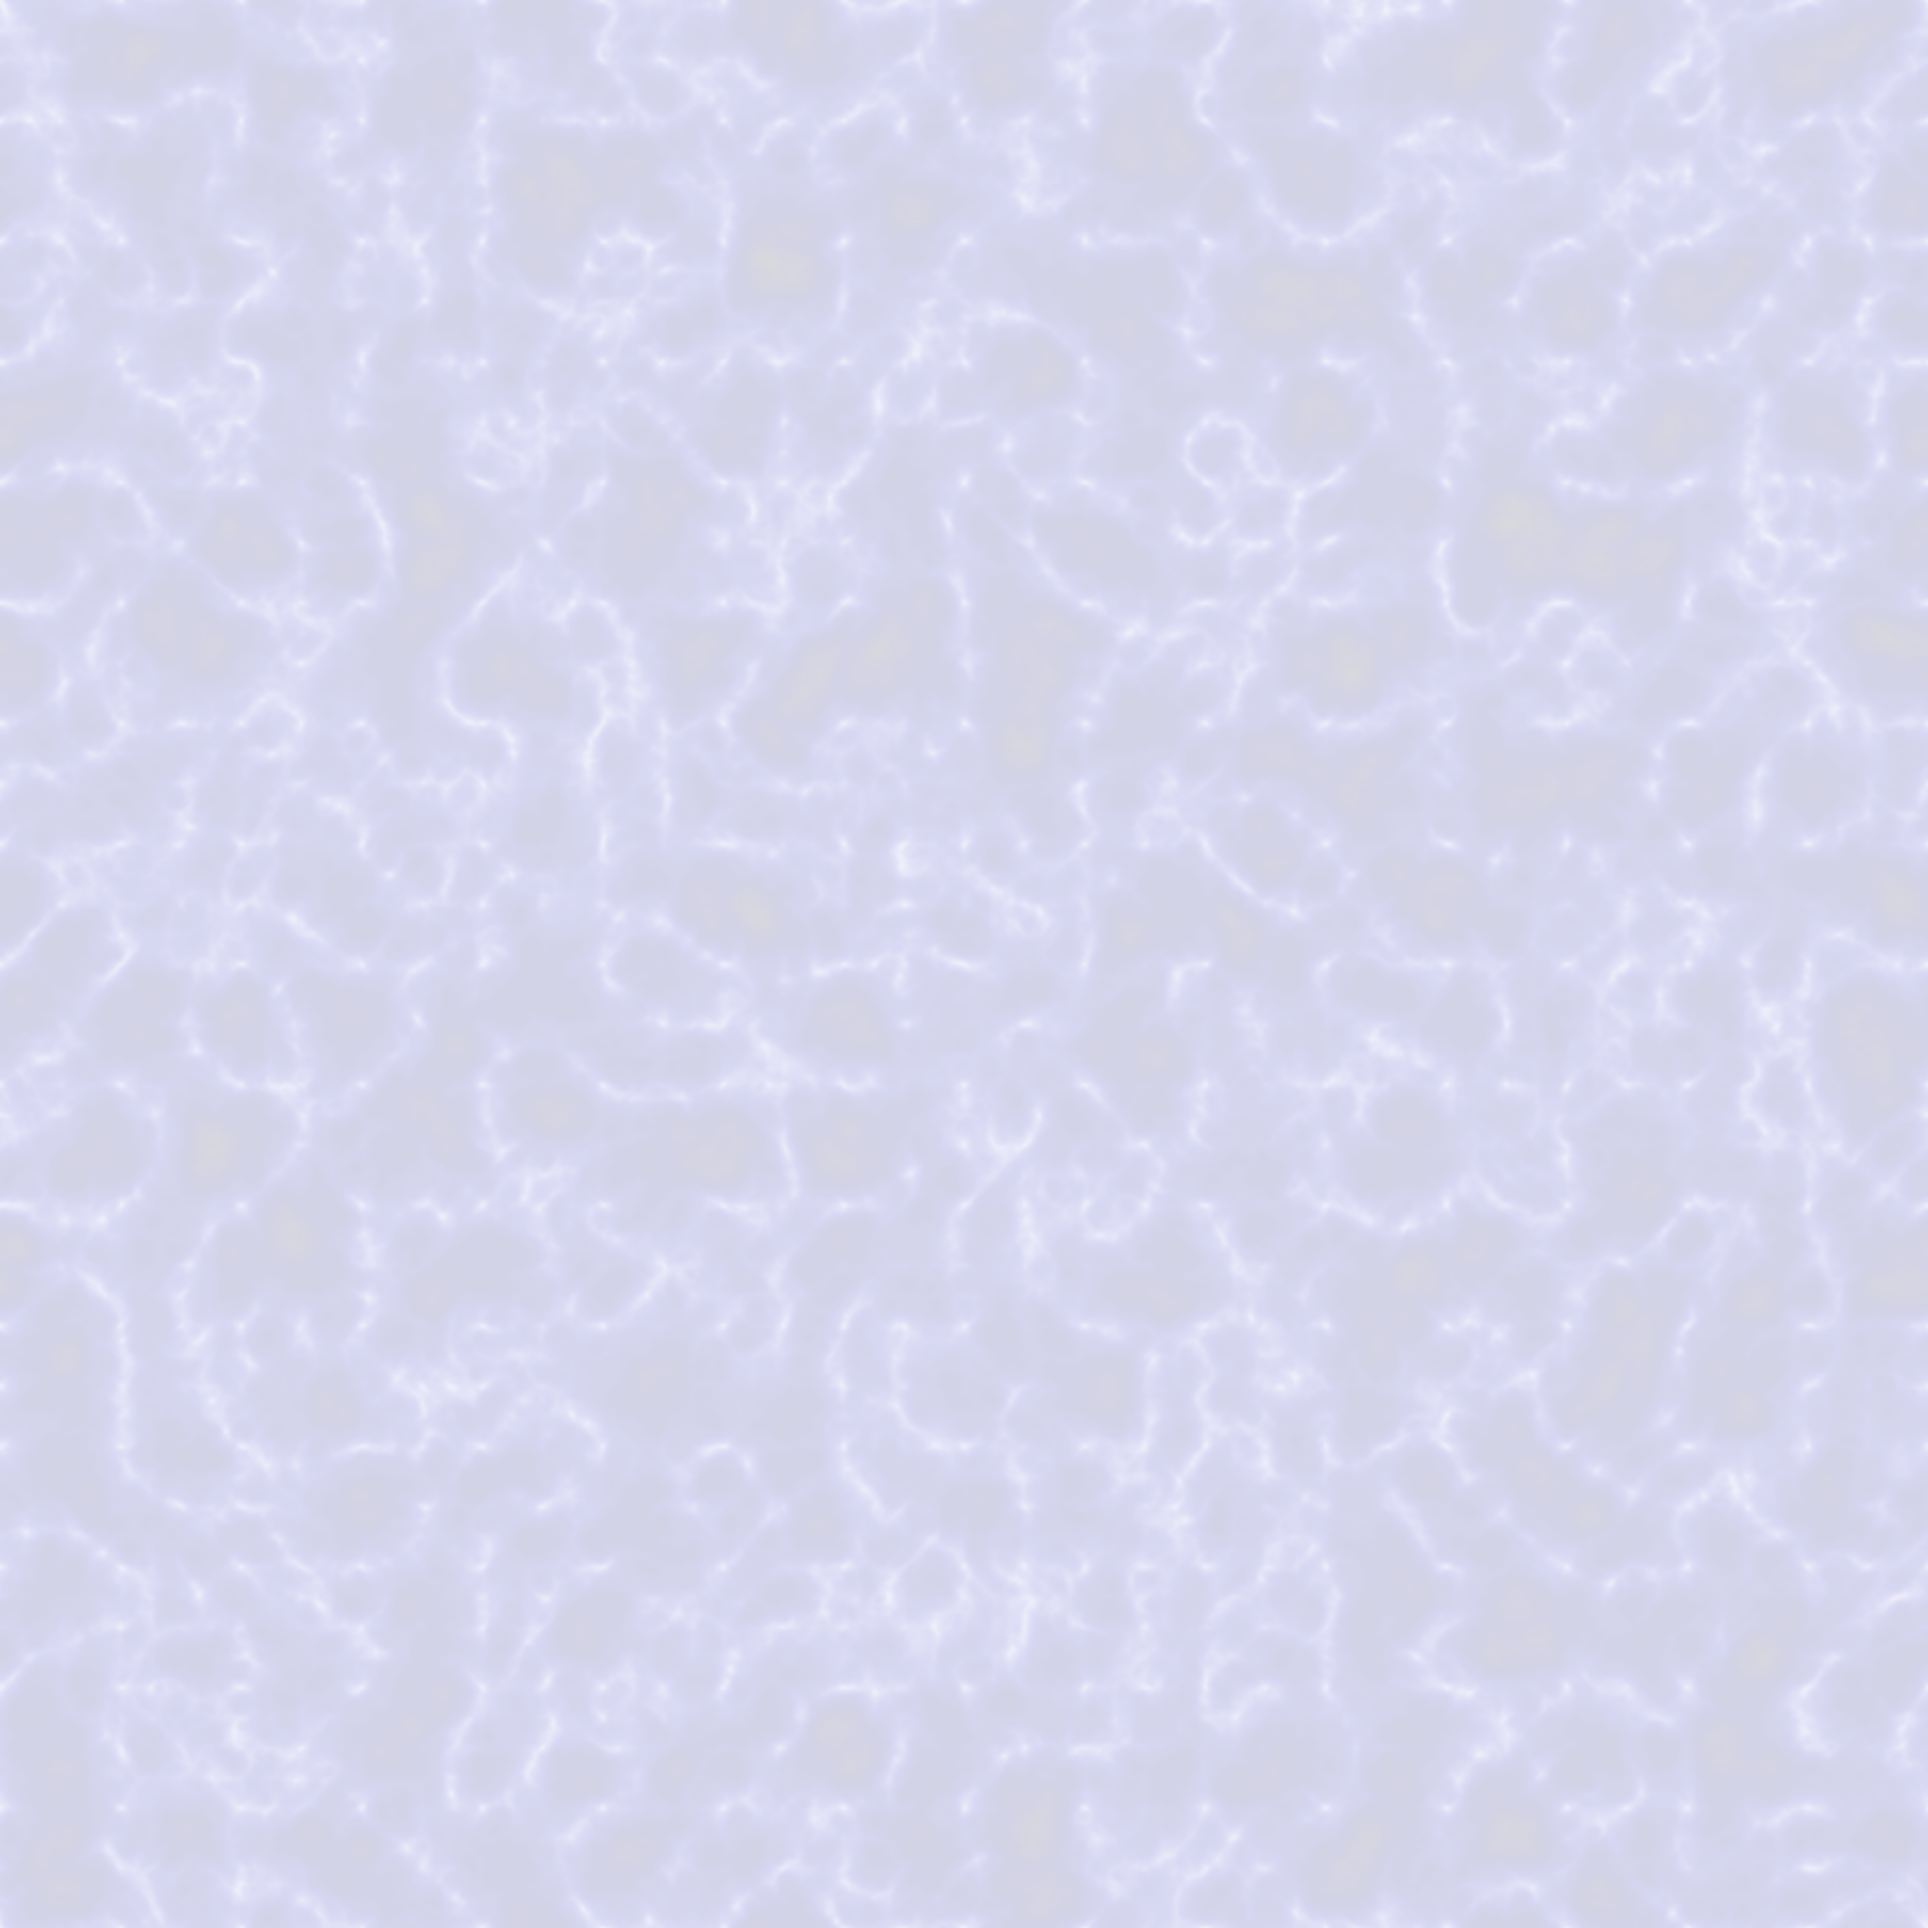
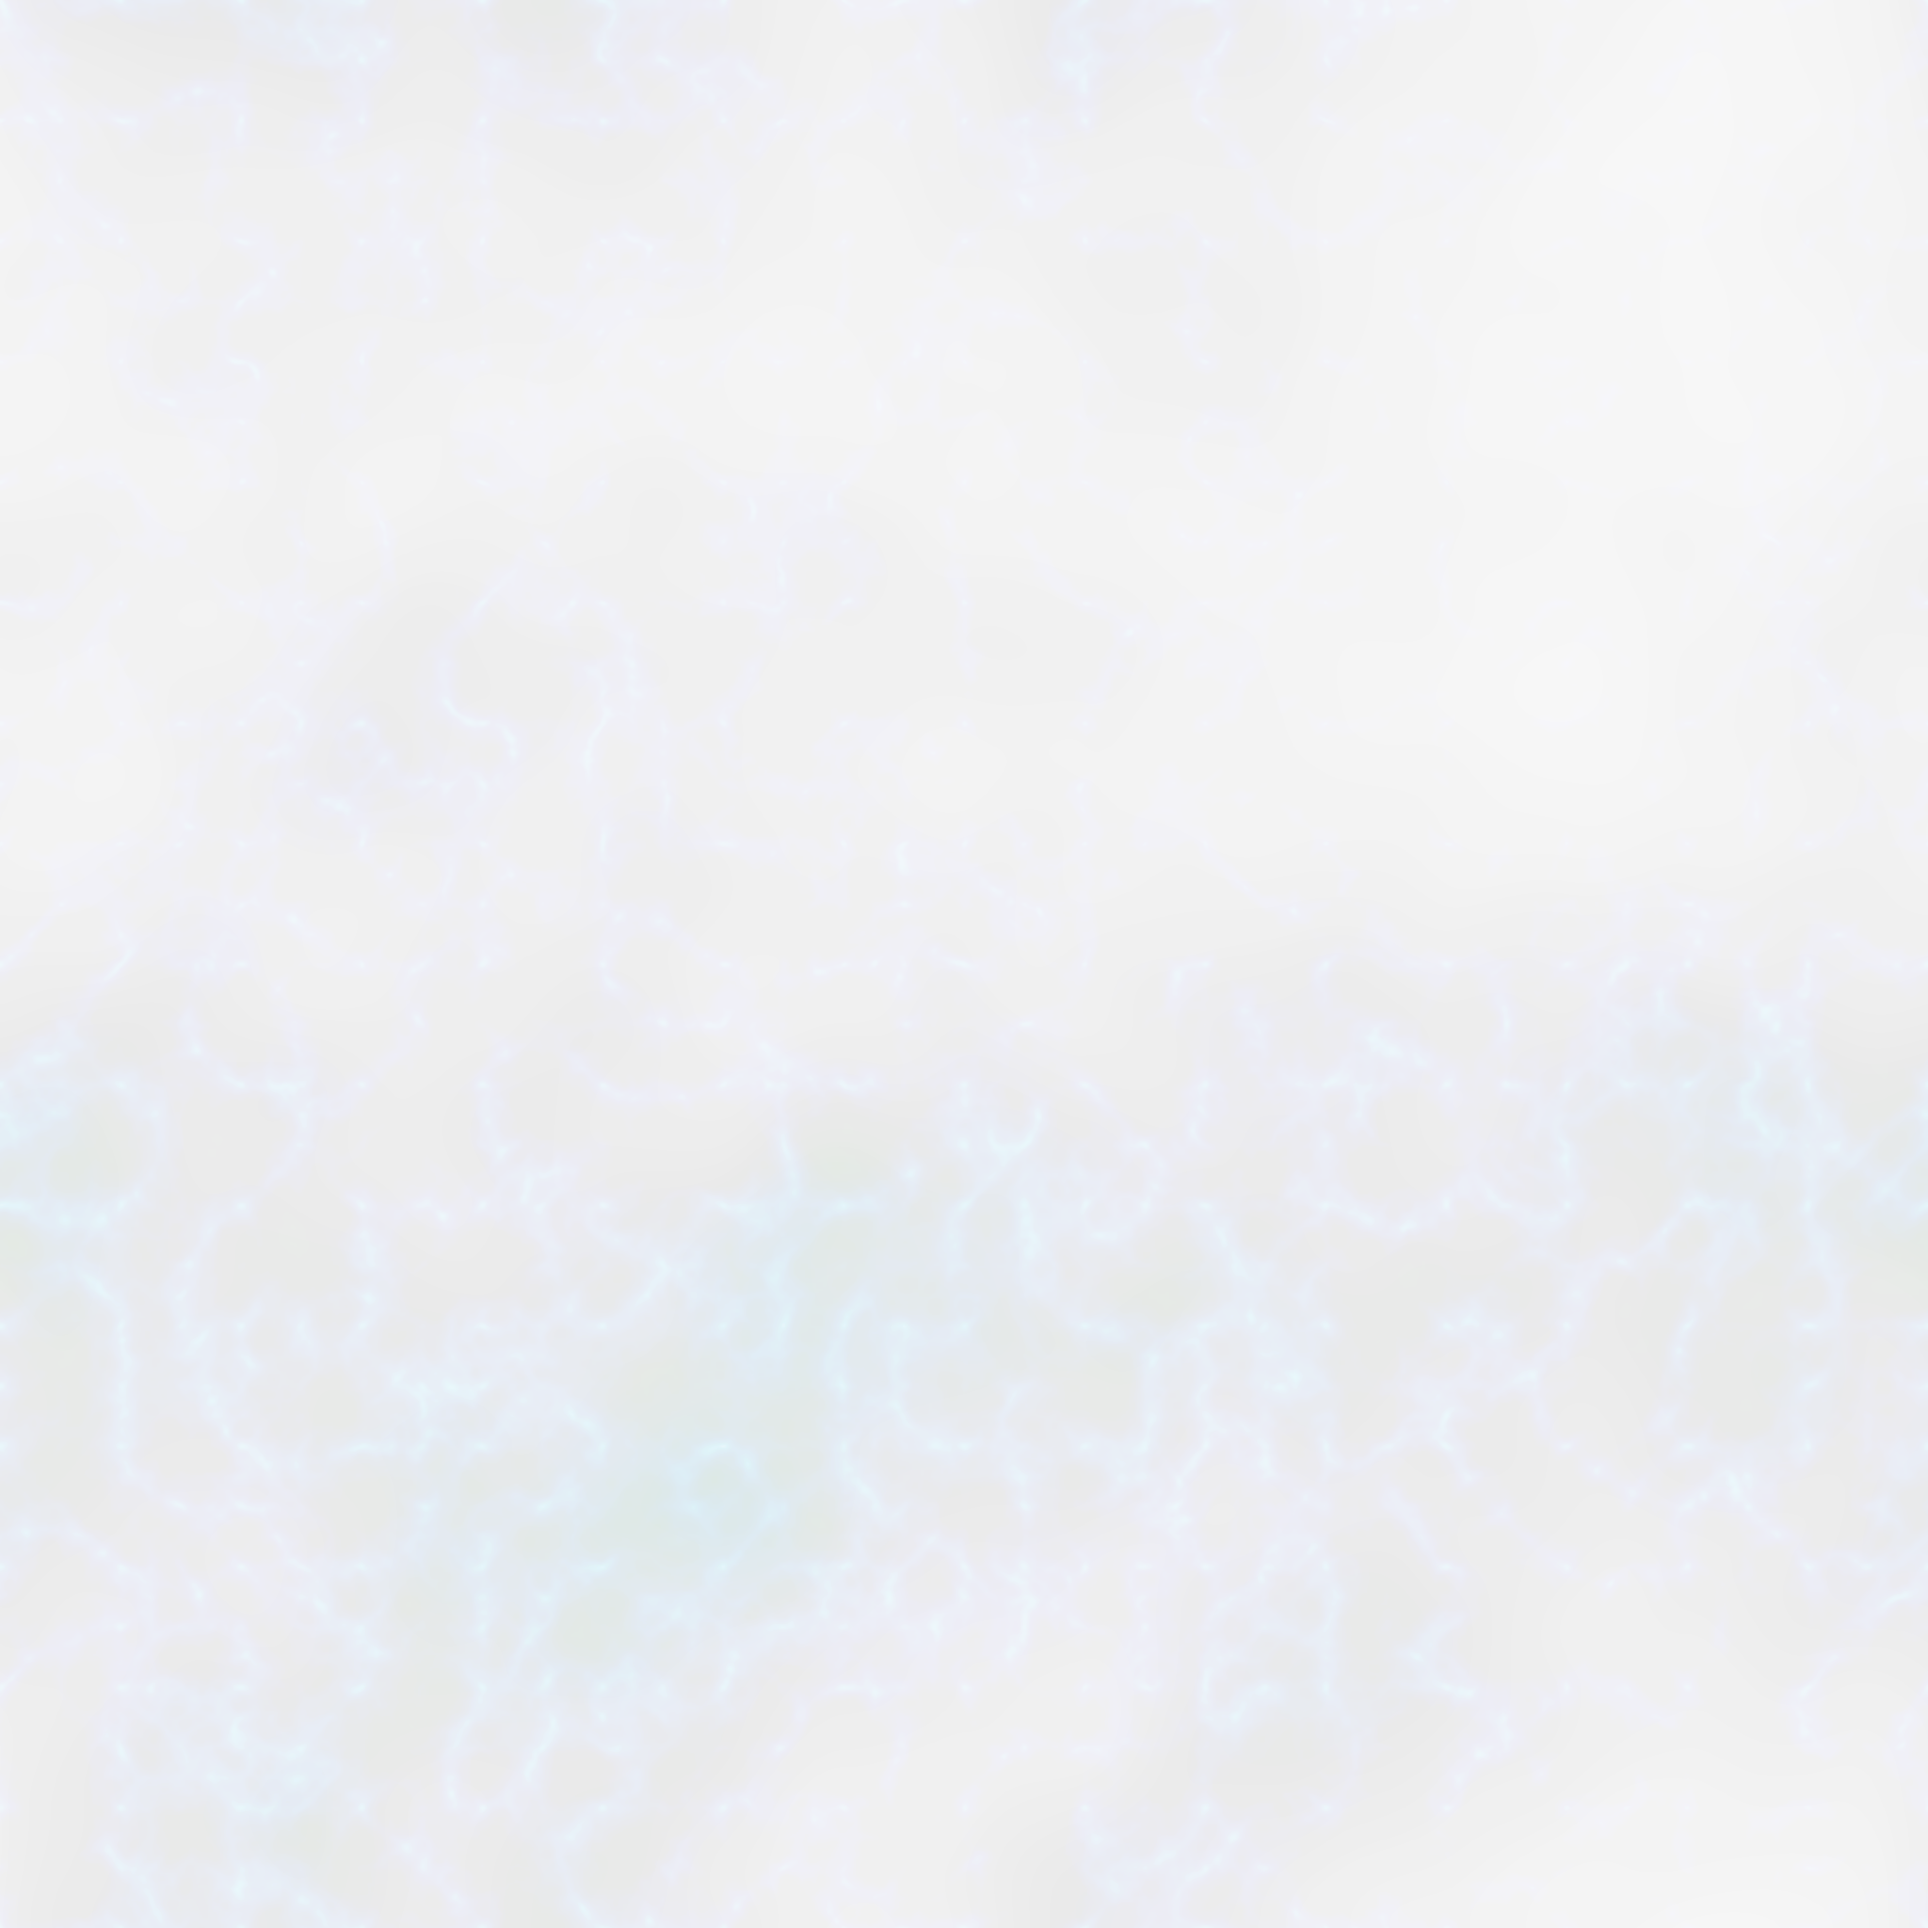
wip

diff --git a/angel-player/src/chrome/content/welcome/welcome.css b/angel-player/src/chrome/content/welcome/welcome.css
@@ -35,7 +35,8 @@
   /*align-items: center;*/
   flex-direction: row;
   display: flex;
-  box-shadow: inset 0 0 1em 1em rgba(70, 80, 150, 0.5);
+  box-shadow: inset 0 0 2em 1em rgba(170, 220, 255, 0.2);
+  padding: 2em;
 }
 
 button.big {
@@ -80,13 +81,12 @@ button.big:hover {
 
 button.big:active {
   background: linear-gradient(to bottom,
-    #dfdfdf 0%,
-    #cfcfcf 25%,
-    #c0c0c0 49%,
-    #b0b0b0 59%,
-    #a0a0a0 80%,
-    #c0c0c0 100%);
-  box-shadow: 0 0.2em 0.3em rgba(0, 0, 0, 0.3),
+    #eee 0%,
+    #ddd 25%,
+    #dedede 59%,
+    #efefef 80%,
+    #fff 100%);
+  box-shadow: 0 0.05em 0.1em rgba(0, 0, 0, 0.3),
               inset 0 0 0.2em 0.3em rgba(0, 0, 0, 0.2);
 }
 

diff --git a/angel-player/src/chrome/content/controls/main.html b/angel-player/src/chrome/content/controls/main.html
@@ -3,8 +3,8 @@
 </script>
 
 <p>
-    <a href="#" id="toggle">RUN</a> <a id="status"></a>
-    <a href="#" id="compile_ngl">Compile Angelic</a>
-    <a href="#" id="compile_lua">Compile Lua</a>
-    <a href="#" id="run_lua">RUN Lua</a>
+    <button href="#" id="toggle">RUN</button> <p id="status"></p>
+    <button href="#" id="compile_ngl">Compile Angelic</button>
+    <button href="#" id="compile_lua">Compile Lua</button>
+    <button href="#" id="run_lua">RUN Lua</button>
 </p>

diff --git a/angel-player/src/chrome/content/welcome/welcome.html b/angel-player/src/chrome/content/welcome/welcome.html
@@ -5,7 +5,6 @@
   </style>
   <script src="../vendor-js/jquery.js"></script>
 
-<div id="welcome-body">
   <div class="relative-container">
     <div id="welcome-body">
       <div class="left column-container no-select">
